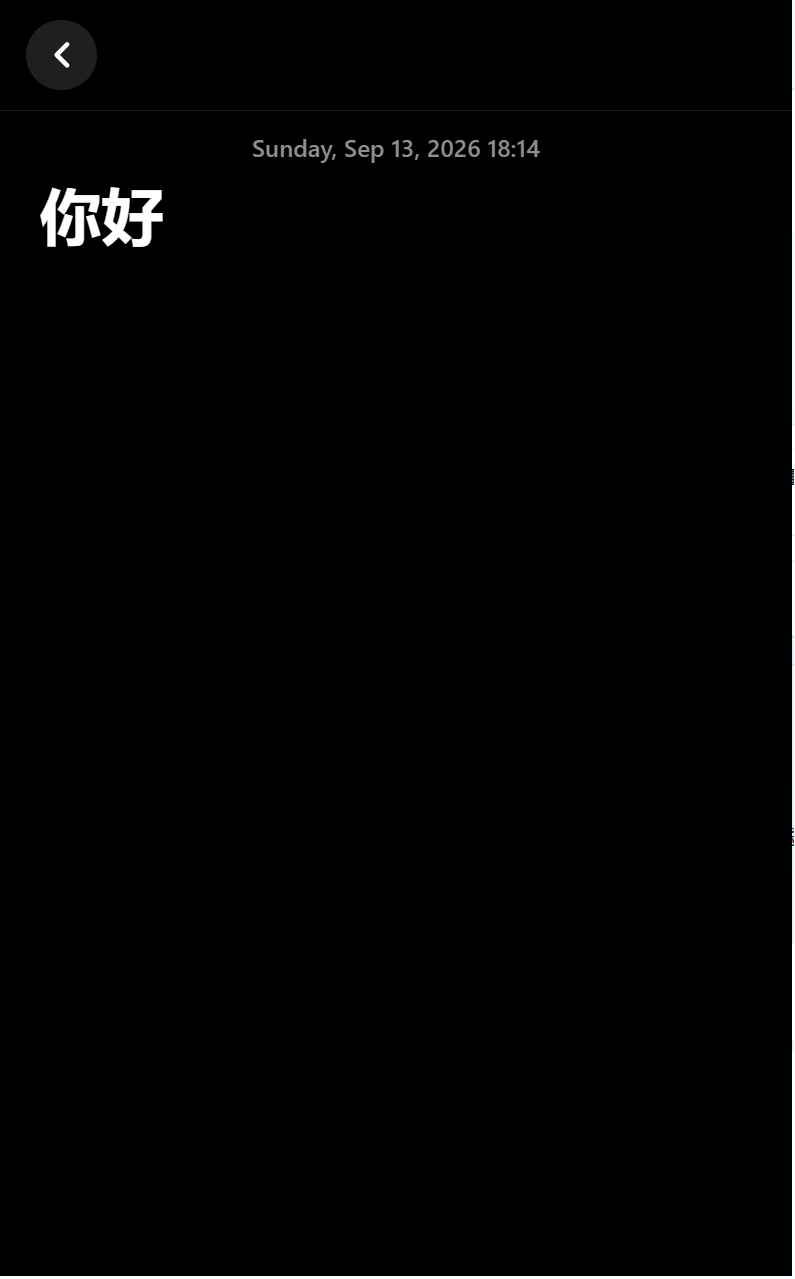
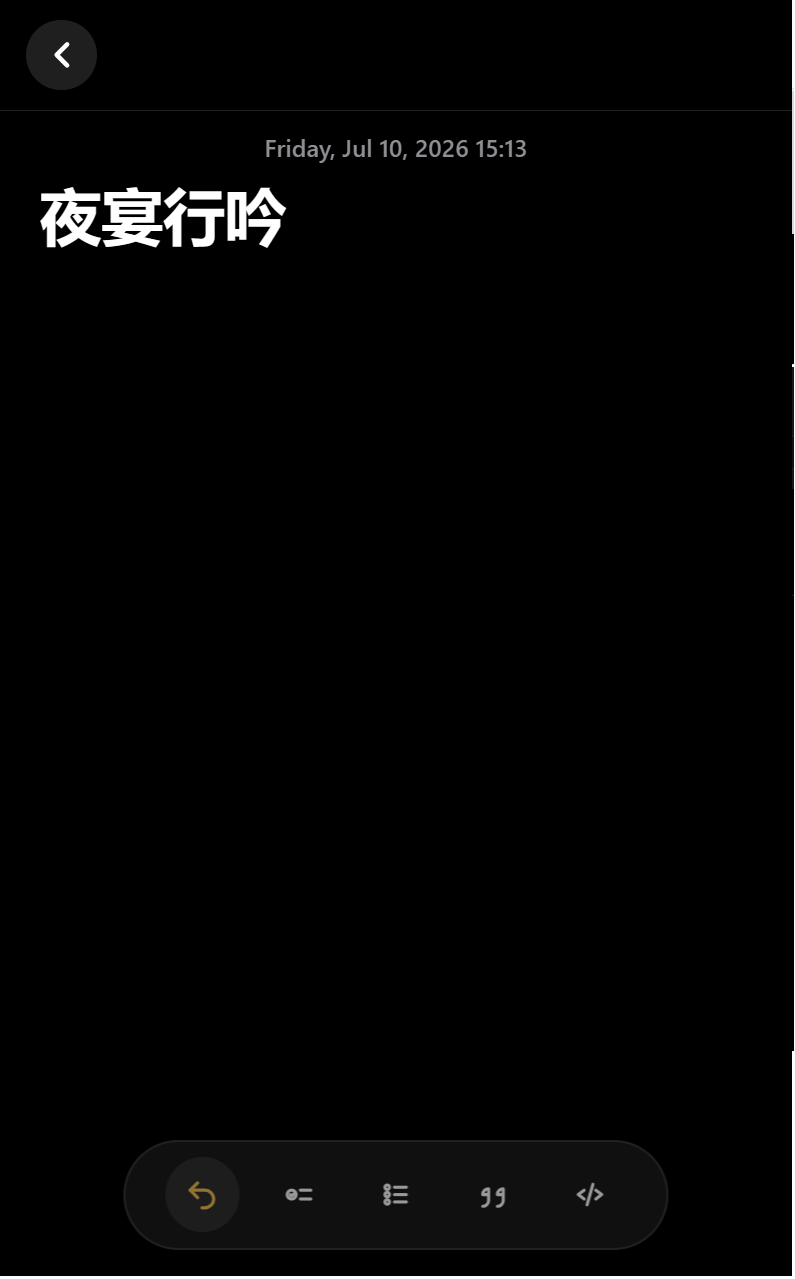
feat(console): showcase canvas shows one page at a time
- Click a page in the timeline to swap the canvas image, no gallery scroll
- Drop origin labels; showcase items carry title, date, summary only
- Update Notes view screenshot and date

diff --git a/src/console/public/app.js b/src/console/public/app.js
@@ -198,7 +198,7 @@ function renderShowcase() {
   elements.workspaceTitle.textContent = '成品展示';
   elements.activeStatus.textContent = '成品展示';
   elements.activeStatus.className = 'status-chip showcase';
-  elements.modelReadout.textContent = item.origin || '手工作品';
+  elements.modelReadout.textContent = item.date ? `完成于 ${item.date}` : '';
   elements.runTitle.textContent = item.title;
   if (elements.runMode) elements.runMode.textContent = '成品展示';
   elements.runStarted.textContent = item.date || '--';
@@ -207,13 +207,11 @@ function renderShowcase() {
   elements.stageTrack.replaceChildren();
   elements.stageTrack.classList.add('showcase-track');
   const note = createElement('li', 'showcase-note');
-  note.append(
-    createElement('strong', '', item.title),
-    createElement('span', '', item.origin || '手工作品'),
-    createElement('p', '', item.summary || ''),
-  );
+  note.append(createElement('strong', '', item.title));
+  if (item.origin) note.append(createElement('span', '', item.origin));
+  note.append(createElement('p', '', item.summary || ''));
   const facts = createElement('dl', 'showcase-facts');
-  for (const [label, value] of [['日期', item.date || '未标日期'], ['页面', `${item.pages.length} 张截图`], ['交付形态', '浏览器插件 · 静态截图']]) {
+  for (const [label, value] of [['日期', item.date || '未标日期'], ['页面', `${item.pages.length} 张截图`], ['形态', '浏览器插件']]) {
     const row = document.createElement('div');
     row.append(createElement('dt', '', label), createElement('dd', '', value));
     facts.append(row);
@@ -246,24 +244,18 @@ function renderShowcase() {
   elements.previewEmpty.hidden = true;
   elements.previewFrame.hidden = true;
   elements.showcaseGallery.replaceChildren();
-  for (const page of item.pages) {
-    const figure = createElement('figure', `showcase-figure${page.name === current.name ? ' active' : ''}`);
-    figure.dataset.page = page.name;
-    const url = showcaseImageUrl(item, page.name);
-    const image = evidenceImage(url, `${item.title} · ${page.label}`);
-    image.addEventListener('click', () => {
-      elements.dialogImage.src = url;
-      elements.dialogCaption.textContent = `${item.title} · ${page.label}`;
-      elements.imageDialog.showModal();
-    });
-    figure.append(image, createElement('figcaption', '', page.label));
-    elements.showcaseGallery.append(figure);
-  }
-  elements.showcaseGallery.hidden = false;
-  requestAnimationFrame(() => {
-    const active = elements.showcaseGallery.querySelector('.showcase-figure.active');
-    if (active) elements.showcaseGallery.scrollTo({ top: active.offsetTop - 16, behavior: 'smooth' });
+  const figure = createElement('figure', 'showcase-figure active');
+  figure.dataset.page = current.name;
+  const url = showcaseImageUrl(item, current.name);
+  const image = evidenceImage(url, `${item.title} · ${current.label}`);
+  image.addEventListener('click', () => {
+    elements.dialogImage.src = url;
+    elements.dialogCaption.textContent = `${item.title} · ${current.label}`;
+    elements.imageDialog.showModal();
   });
+  figure.append(image, createElement('figcaption', '', `${current.label} · ${item.pages.indexOf(current) + 1} / ${item.pages.length}`));
+  elements.showcaseGallery.append(figure);
+  elements.showcaseGallery.hidden = false;
   elements.launchPreview.disabled = true;
   elements.launchPreview.textContent = '启动预览';
   elements.openPreview.disabled = true;
@@ -275,13 +267,11 @@ function renderShowcase() {
   elements.inspectorProduct.replaceChildren();
   const block = createElement('div', 'inspector-block');
   block.append(createElement('h3', '', '作品说明'), createElement('p', '', item.summary || '暂无说明'));
-  const origin = createElement('div', 'inspector-block');
-  origin.append(createElement('h3', '', '来源'), createElement('p', '', item.origin || '手工作品'));
   const pages = createElement('div', 'inspector-block');
   const list = document.createElement('ul');
   for (const page of item.pages) list.append(createElement('li', '', page.label));
   pages.append(createElement('h3', '', `页面 · ${item.pages.length}`), list);
-  elements.inspectorProduct.append(block, origin, pages);
+  elements.inspectorProduct.append(block, pages);
   elements.inspectorDesign.replaceChildren(createElement('div', 'panel-empty', '成品展示没有设计规格记录。'));
   elements.inspectorQuality.replaceChildren(createElement('div', 'panel-empty', '成品展示没有 UI 质量验收记录。'));
 

diff --git a/src/console/public/app.css b/src/console/public/app.css
@@ -260,15 +260,12 @@ input:focus, textarea:focus { border-color: var(--primary); background: var(--su
 #preview-empty { display: grid; place-content: center; gap: 6px; padding: 28px; color: var(--muted); text-align: center; background: linear-gradient(145deg, #fffdf8, #f5efe4); }
 #preview-empty strong { color: var(--ink); font-family: var(--serif); font-size: 1.1rem; font-weight: 600; }
 #preview-empty span { font-size: .74rem; }
-#showcase-gallery { width: 100%; min-height: 520px; grid-area: 1 / 1; display: grid; grid-template-columns: repeat(auto-fit, minmax(240px, 1fr)); gap: 16px; padding: 16px; overflow: auto; background: #14110e; }
-.product-canvas.showcase-mode .canvas-viewport { width: calc(100% - 28px); background: #14110e; border-color: #2a241d; }
-.product-canvas.showcase-mode[data-viewport='mobile'] #showcase-gallery { grid-template-columns: 1fr; }
+#showcase-gallery { width: 100%; height: 100%; min-height: 520px; grid-area: 1 / 1; display: grid; place-items: center; padding: 16px; overflow: hidden; background: #14110e; }
+.product-canvas.showcase-mode .canvas-viewport { background: #14110e; border-color: #2a241d; }
 .product-canvas.showcase-mode[data-viewport='mobile'] .canvas-viewport { width: min(440px, calc(100% - 28px)); }
-.product-canvas.showcase-mode[data-viewport='tablet'] #showcase-gallery { grid-template-columns: repeat(2, minmax(0, 1fr)); }
-.product-canvas.showcase-mode[data-viewport='tablet'] .canvas-viewport { width: min(900px, calc(100% - 28px)); }
-.showcase-figure { min-width: 0; margin: 0; display: grid; gap: 8px; align-content: start; padding: 10px; border: 1px solid #2a241d; border-radius: 12px; background: #1c1814; transition: border-color 160ms var(--ease), box-shadow 160ms var(--ease); }
-.showcase-figure.active { border-color: var(--accent); box-shadow: 0 0 0 3px rgba(209, 155, 58, .22); }
-.showcase-figure img { width: 100%; display: block; border-radius: 8px; object-fit: contain; background: #0f0d0b; cursor: zoom-in; }
+.product-canvas.showcase-mode[data-viewport='tablet'] .canvas-viewport { width: min(820px, calc(100% - 28px)); }
+.showcase-figure { width: 100%; height: 100%; min-height: 0; margin: 0; display: grid; grid-template-rows: minmax(0, 1fr) auto; gap: 10px; }
+.showcase-figure img { width: 100%; height: 100%; min-height: 0; max-height: calc(100vh - 320px); display: block; border-radius: 8px; object-fit: contain; object-position: top center; background: #0f0d0b; cursor: zoom-in; }
 .showcase-figure figcaption { color: #d8cdb9; font-size: .72rem; font-weight: 600; letter-spacing: .02em; text-align: center; }
 .showcase-facts { display: grid; gap: 6px; margin: 10px 0 0; padding-top: 10px; border-top: 1px solid var(--line); }
 .showcase-facts div { display: flex; justify-content: space-between; gap: 8px; }

diff --git a/README.md b/README.md
@@ -119,11 +119,11 @@ npm install -> npm run build -> 启动 Vite -> Playwright 打开浏览器
 
 目前项目只生成使用模拟数据的 React + Vite 前端，不包含真实后端、登录系统、多人协作或云端部署，也不宣称能代替人工审美判断。
 
-## 对照：同一套“看截图写前端”的思路，手工 vibe coding 的浏览器插件
+## 浏览器插件成品
 
-下面几张不是 Frontend Autopilot 的产出，而是我另外用同样的截图驱动方式手工 vibe coding 出来的几个浏览器插件（课程表、稍后阅读、Sisyphus 待办、Notes 笔记）：把目标界面截图交给模型，逐轮对照截图修正。放在这里是为了对照两条路线的差距：手工路线能拿到更精细的视觉结果，但每一轮的验收都靠人眼；Frontend Autopilot 追求的是把“跑起来、点一遍、量一遍”这一段交给本地程序，代价是目前的生成质量还明显不如人工盯着改。
+下面几个是同一套截图驱动思路做出来的浏览器插件（课程表、稍后阅读、Sisyphus 待办、Notes 笔记），也收录在本地工作台的“成品展示”栏目里。
 
-| 月视图 | 日视图 | 编辑课程 |
+| 课程表 · 月视图 | 课程表 · 日视图 | 课程表 · 编辑课程 |
 | --- | --- | --- |
 | ![课程表插件月视图](docs/screenshots/course-schedule-month.png) | ![课程表插件日视图](docs/screenshots/course-schedule-day.png) | ![课程表插件编辑页](docs/screenshots/course-schedule-edit.png) |
 
@@ -134,8 +134,6 @@ npm install -> npm run build -> 启动 Vite -> Playwright 打开浏览器
 | Notes 列表 | Notes 查看 | Notes 编辑 |
 | --- | --- | --- |
 | ![Notes 插件列表页](docs/screenshots/notes-plugin-list.png) | ![Notes 插件查看页](docs/screenshots/notes-plugin-view.png) | ![Notes 插件编辑页](docs/screenshots/notes-plugin-editor.png) |
-
-把这个差距缩小，就是下一阶段的目标：让验收器对视觉细节（间距、字重、色彩层次）也能给出可执行的失败证据，而不只是点击尺寸和对比度。
 
 ## 快速运行
 
